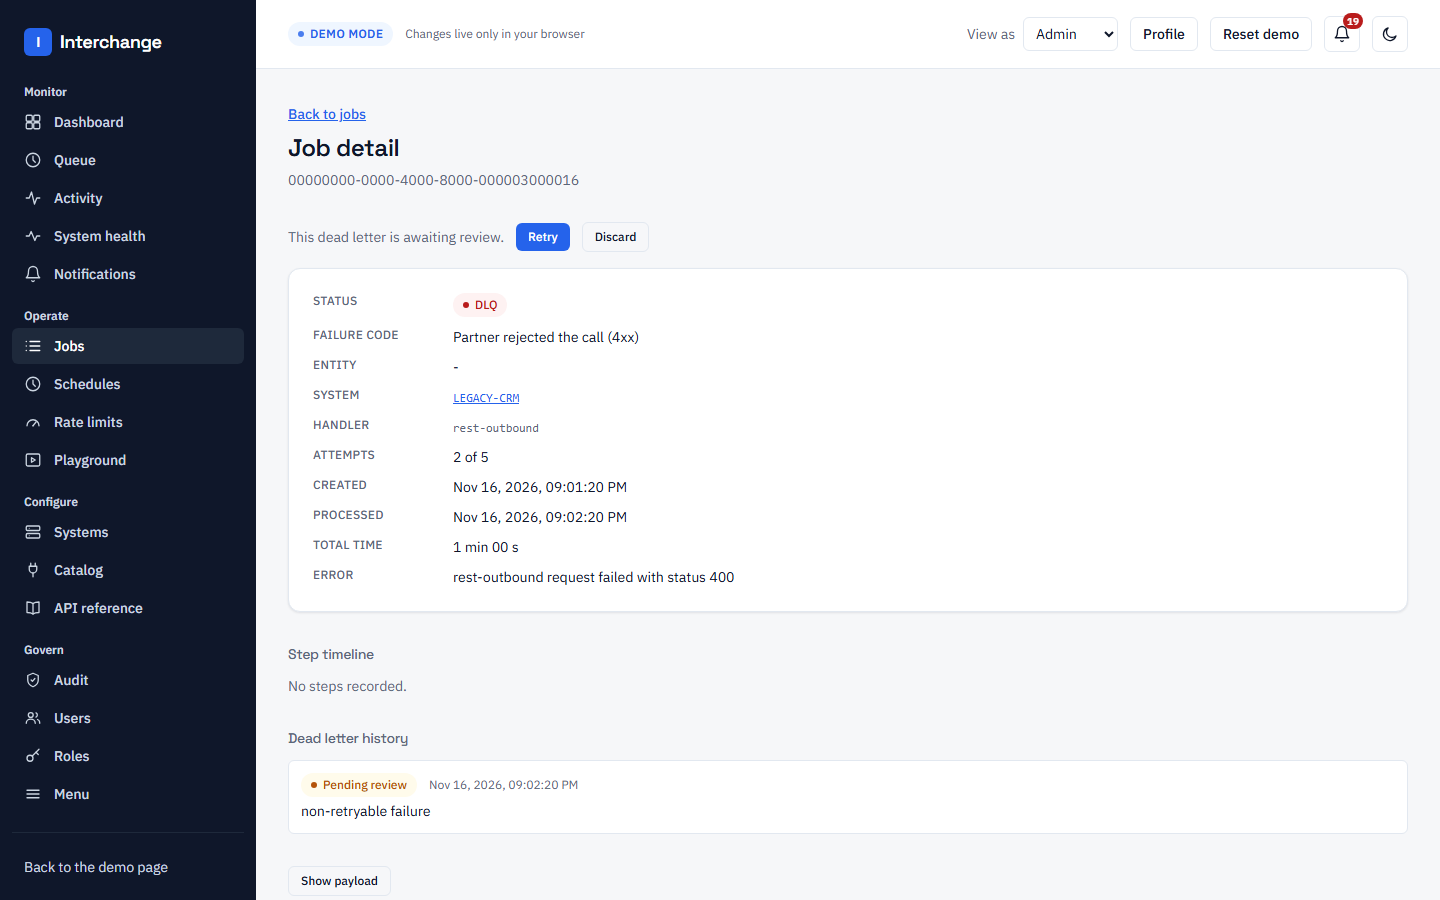
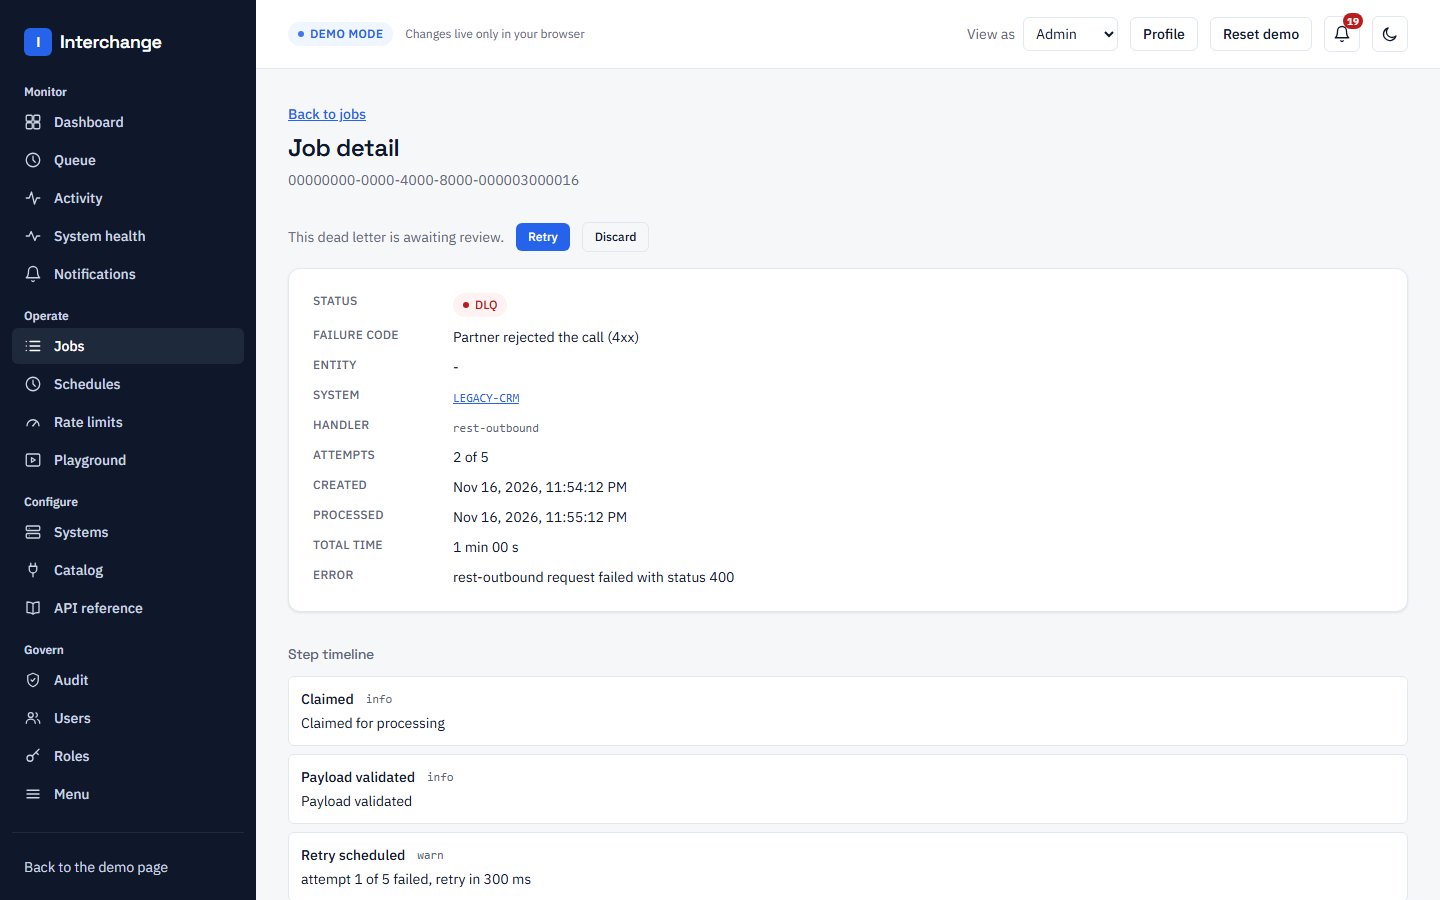
docs: sync P7d (next 16.4.5, zod 4.6.7, Dependabot for actions, job detail with step timeline)

Changed region(s): [[0.1875, 0.7467, 0.9688, 0.9956], [0.375, 0.5289, 0.4062, 0.5911]]

diff --git a/docs/security.md b/docs/security.md
@@ -144,7 +144,7 @@ The gateway reads at most 1 MiB (1,048,576 bytes) of request body. The read happ
 The gateway validates the body against the connector's zod schema with the top level strict:
 
 - **Unknown top-level keys are refused**, not dropped: `422 {"error":"payload validation failed","unknownKeys":["extra"],"details":{...}}`. Names are sorted, at most 20 are listed and each is cut at 64 characters; `unknownKeysTruncated: true` marks a longer list. Values are never reported. The activity row stores `{"reason":"unknown keys","unknownKeys":[...]}` only, so a secret sent under a misspelled key is not written to the log.
-- **Other validation failures** keep zod's `flatten` shape in `details`, but every message comes from one no-echo mapper: an enum failure lists the allowed values and never the submitted one.
+- **Other validation failures** keep zod's `flatten` shape in `details`, but every message comes from one no-echo mapper: an enum failure (`invalid_value`) lists the allowed values and never the submitted one.
 - **Only the top level is strict.** Nested objects follow the connector's own schema.
 - **Same rule for a manual run.** `jobs.run` in the admin API refuses an unknown payload key with a validation issue `unrecognized_keys` under `payload`. The drain keeps a lenient parse of payloads already stored, so rows queued before this rule never dead-letter on it.
 - **Fail closed on the schema itself.** A connector whose input schema is not a plain object, or uses a catch-all, cannot be checked for unknown keys. The gateway answers `500 {"error":"internal error"}` and a registry test asserts every shipped schema is an object.
@@ -312,7 +312,7 @@ Client-side route redirects and hidden UI elements are UX conveniences only. `re
 4. checks the endpoint's permission against the database (`requirePermission`), before any input is parsed;
 5. applies the per-user rate limit (`admin:user:<user id>`), only after authorization, so refused and anonymous requests never spend a real user's budget (429 `RATE_LIMITED`);
 6. reads the body with a 64 KB cap (413) and validates input with zod (400);
-7. runs the service and returns JSON in one error envelope, `{"error":{"code","message","requestId","issues?"}}`. Validation `issues` carry paths and messages, never submitted values, and an unexpected failure returns a fixed `INTERNAL` message while the detail is logged server-side with the request id.
+7. runs the service and returns JSON in one error envelope, `{"error":{"code","message","requestId","issues?"}}`. Validation `issues` carry paths and messages, never submitted values (issue codes follow zod 4 names since P7d, for example `invalid_value` and `invalid_format`), and an unexpected failure returns a fixed `INTERNAL` message while the detail is logged server-side with the request id.
 
 Every `/api/admin/*` response carries `Cache-Control: no-store`, because one of them returns a plaintext API key exactly once.
 
@@ -480,10 +480,10 @@ The provisioned-dormant default is described in `docs/architecture.md` as a cost
 
 ## Dependency audit
 
-`npm audit` runs before each release. The state after P5z (Next.js 16.4.3, next-auth 4.24.15, undici 7.30.1, postcss 8.5.23, tsx 4.23.15, vitest 4.1.12, all pinned exactly):
+`npm audit` runs before each release. The state after P7d (Next.js 16.4.5, zod 4.6.7, next-auth 4.24.15, undici 7.30.1, postcss 8.5.23, tsx 4.23.15, vitest 4.1.12, all pinned exactly): `npm audit --omit=dev` reads 0, and the GitHub Actions SHA pins are kept fresh by a monthly grouped Dependabot PR.
 
-- **Accepted, production: zod 3.24.1 and zod-to-json-schema** (high, GHSA-mrhx-c7xc-m3w5). The advisory concerns very large inputs. Every input zod parses is bounded first: the admin API reads at most 64 KB of body and the inbound gateway at most 1 MiB (see "Inbound body size"). A zod major upgrade would touch every schema in the codebase, so it is deferred to its own change.
-- **Accepted, development only:** drizzle-kit, @esbuild-kit and esbuild (GHSA-67mh-4wv8-2f99), and eslint-config-next, typescript-eslint and minimatch (GHSA-g3hv-75wg-m249). These run only on a developer machine or in CI and never ship in the build.
+- **Fixed, production:** Next.js 16.4.5 (GHSA-mfr8-8qww-v76h; the app is not exposed, since it uses no `use cache` or `unstable_cache`) and zod 4.6.7 (GHSA-mrhx-c7xc-m3w5: array, set and map bounds are now checked before the elements, so an oversized failing array gives one issue instead of one per element). Every input zod parses is also bounded first: the admin API reads at most 64 KB of body and the inbound gateway at most 1 MiB (see "Inbound body size"). `zod-to-json-schema` was removed: both generators use zod's own `z.toJSONSchema`.
+- **Accepted, development only:** the typescript-eslint chain via minimatch (GHSA-g3hv-75wg-m249; the fix needs typescript-eslint 8.73.0, released 2026-11-16, which is held under a 7-day supply-chain cooldown and goes in as a lockfile-only update from 2026-11-23) and the drizzle-kit chain via @esbuild-kit and esbuild (GHSA-67mh-4wv8-2f99; there is no non-breaking fix, and the 0.18.1 that npm suggests is a downgrade). None of them ships in the build; they run only on a developer machine or in CI.
 - **Override:** `package.json` pins the transitive `fast-uri` to 3.1.9, its first fixed version (`package.json` takes no comments, so the reason is recorded here). Remove the override once the packages that depend on it require a fixed version themselves.
 
 ## Threat model: a compromised partner credential

diff --git a/docs/architecture.md b/docs/architecture.md
@@ -258,7 +258,7 @@ Vercel's serverless bundler (Node File Trace) needs to see every file a route mi
 4. Emits `src/connectors/generated/manifest.ts`: a file with genuine static `import` statements, one per connector, assembled into a `Record<string, Connector>`.
 5. Emits `src/connectors/generated/catalog.ts` through `scripts/connector-catalog.ts`. This step does evaluate TypeScript: it imports each folder's `handler.meta.ts` and `index.ts` through `tsx`, turns the connector's zod `inputSchema` (made strict) into a JSON Schema and pairs it with the `sample` from the meta. The build fails if a sample does not pass the connector's own schema under the gateway's strict rule (`parseConnectorInput`), or if the meta `direction` disagrees with the connector `kind`.
 
-The catalog is build time only. `zod-to-json-schema` is a devDependency imported only by `scripts/`, and an ESLint `no-restricted-imports` rule bans it from `src/` and `core/`, so it can never reach a bundle. App code reads the committed `catalog.ts` as plain data: the real server and the demo both import it, so `connectors.catalog` returns identical data on both. A drift test fails if `catalog.ts` differs from a fresh `buildCatalog()`, and another checks that each sample validates against its emitted schema.
+The catalog is build time only. The JSON Schema comes from zod's own `z.toJSONSchema`, called only by `scripts/`, so the generator never reaches a bundle. App code reads the committed `catalog.ts` as plain data: the real server and the demo both import it, so `connectors.catalog` returns identical data on both. A drift test fails if `catalog.ts` differs from a fresh `buildCatalog()`, and another checks that each sample validates against its emitted schema.
 
 At runtime, `core/connectors/resolver.ts` does nothing more than a synchronous object lookup into that generated map:
 
@@ -504,7 +504,7 @@ P5e adds a generated OpenAPI document, a console page that reads it, an integrat
 
 **OpenAPI document.**
 
-- **Generator.** `scripts/generate-openapi.ts` writes `src/generated/openapi.json`, which is committed. It is OpenAPI 3.1 and holds 108 operations: the 107 admin endpoints and the inbound gateway (105 and 104 before P7b). Each admin operation has `operationId` equal to the endpoint id, a tag taken from the id prefix, `x-permission`, `x-audit` when the endpoint is audited, the session-cookie security scheme, the request body (or the query and path parameters of a GET) taken from the endpoint's zod input, and the shared error responses. The input schemas are converted by `zod-to-json-schema`, which is imported only under `scripts/`.
+- **Generator.** `scripts/generate-openapi.ts` writes `src/generated/openapi.json`, which is committed. It is OpenAPI 3.1 and holds 108 operations: the 107 admin endpoints and the inbound gateway (105 and 104 before P7b). Each admin operation has `operationId` equal to the endpoint id, a tag taken from the id prefix, `x-permission`, `x-audit` when the endpoint is audited, the session-cookie security scheme, the request body (or the query and path parameters of a GET) taken from the endpoint's zod input, and the shared error responses. The input schemas are converted by `z.toJSONSchema` (draft 2020-12, refs inlined), which is called only under `scripts/`.
 - **Inbound gateway.** `POST /api/inbound/{systemCode}/{endpoint}` (`inbound.receive`) lists the three partner schemes (`X-API-Key`, bearer, basic), each also usable with `X-Service-Token`, the `Idempotency-Key`, `Prefer` and `X-Request-ID` headers, the status codes 200, 202, 400, 401, 403, 404, 409, 413, 422, 429, 500 and 502, and the payload schema of every inbound connector, read from the generated catalog.
 - **When it runs.** `predev` and `prebuild` run it after the connector manifest, and CI runs `npm run generate:openapi`. Nothing is generated at request time. A drift test (`scripts/generate-openapi.test.ts`) renders the document again and requires the committed text to match exactly, so a change to an endpoint without a regenerated file fails the build. `test/p5e/openapi.test.ts` checks that every registry endpoint appears exactly once, that no `$ref` dangles, that no OpenAPI 3.0-only construct is used and that no environment name or secret marker appears.
 - **Serving.** `GET /api/openapi.json` (`src/app/api/openapi.json/route.ts`) is public and read-only. The document is bundled with the route and answered with `Cache-Control: public, max-age=300` and `X-Content-Type-Options: nosniff`; only GET is exported, so any other method is 405.

diff --git a/docs/deployment.md b/docs/deployment.md
@@ -185,7 +185,7 @@ The check passes only on HTTP `200` with `status` equal to `ok` and `db` equal t
 
 - **Actions minutes.** The hourly Health run costs about 720 minutes a month (24 runs a day, billed at least one minute each). The Free plan includes 2,000 minutes a month for private repositories. The `verify` job also costs 16 to 25 minutes per push to `main` and per pull request run, plus the deploy job. Heavy pushing plus the hourly check can reach the limit. A 2-hourly cron (`17 */2 * * *`) halves the Health cost. Check Settings, Billing, Actions usage before raising the cadence.
 - **Secrets are repository secrets**, not an Environment (see above).
-- **Actions are pinned to full commit SHAs**, with the release tag in a comment (`actions/checkout` v7.0.1, `actions/setup-node` v7.1.0), because a tag can move. To update one, resolve the new release tag to its commit and replace the SHA and the comment together. No bot opens these updates, since each update run costs `verify` minutes.
+- **Actions are pinned to full commit SHAs**, with the release tag in a comment (`actions/checkout` v7.0.1, `actions/setup-node` v7.1.0), because a tag can move. To update one, resolve the new release tag to its commit and replace the SHA and the comment together. Dependabot (`.github/dependabot.yml`) opens one grouped pull request a month with the new SHAs, so the update check costs about one `verify` run a month.
 - **No automatic rollback.** A failed Health smoke leaves the new deployment live. Roll back by promoting the previous deployment (the rollback section of the operations runbook, in the source repository); a migration is not reversed by a rollback.
 - **The deploy job builds on Vercel**, so a build that passes in CI can still fail there; the job fails in that case and production keeps the previous deployment.
 - **Manual deploys still work.** The job is a convenience, not a lock. A deploy made by hand with the Vercel CLI carries no `githubCommitSha` unless the command sets it, and the gate then falls back to `github.event.before` as its baseline (`scripts/ci/migration-gate.sh:59-68`).

diff --git a/docs/connectors.md b/docs/connectors.md
@@ -135,7 +135,7 @@ The guards sit on the two fields, not on the object, because the gateway needs a
 
 ## The catalog
 
-Every connector appears on the console's Catalog page (route slug `connectors`, endpoint `GET /connectors/catalog`, permission `systems:read`). Each entry shows the `handlerKey`, direction, version, description, the connector's input as a JSON Schema (strict: unknown keys are refused) and the `sample`, each with a copy button. The data comes from `src/connectors/generated/catalog.ts`, which the codegen step writes from your `index.ts` (the zod `inputSchema`) and `handler.meta.ts` (the `sample`), so the documented schema cannot drift from the one the gateway enforces. The file is committed, and a test fails if it is stale. The JSON Schema is produced by `zod-to-json-schema`, a build-time devDependency that app code may not import.
+Every connector appears on the console's Catalog page (route slug `connectors`, endpoint `GET /connectors/catalog`, permission `systems:read`). Each entry shows the `handlerKey`, direction, version, description, the connector's input as a JSON Schema (strict: unknown keys are refused) and the `sample`, each with a copy button. The data comes from `src/connectors/generated/catalog.ts`, which the codegen step writes from your `index.ts` (the zod `inputSchema`) and `handler.meta.ts` (the `sample`), so the documented schema cannot drift from the one the gateway enforces. The file is committed, and a test fails if it is stale. The JSON Schema is produced at build time by zod's own `z.toJSONSchema`.
 
 To add a sample for a new connector, add `sample` to its `handler.meta.ts`, run `npm run generate:connectors`, and commit the regenerated `catalog.ts`. If the sample is wrong the command fails and names the connector and the offending field.
 
